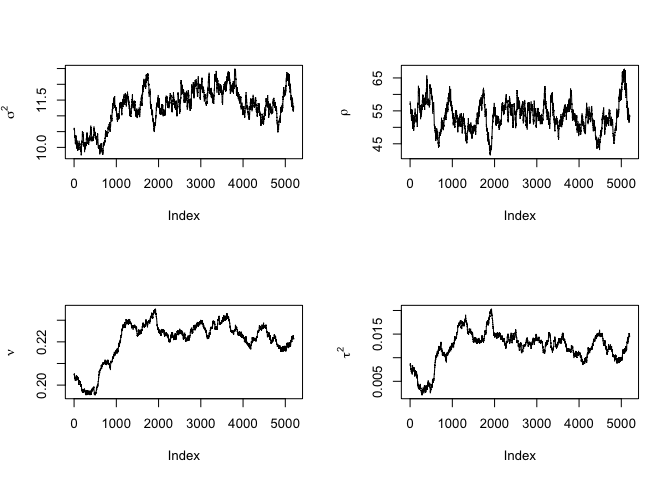
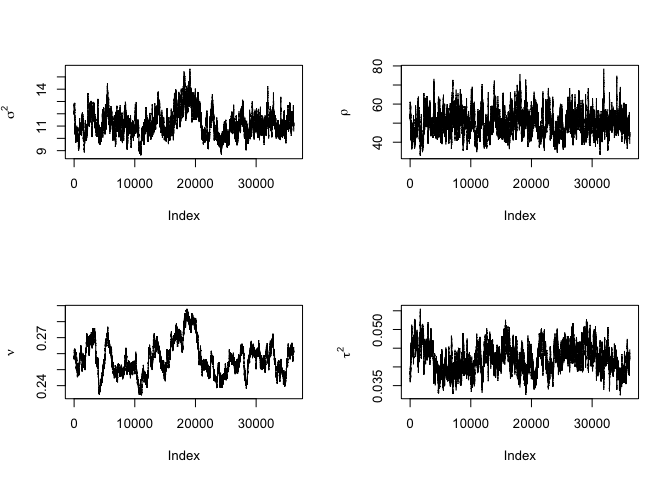
updated readme and vignette

diff --git a/README.md b/README.md
@@ -27,17 +27,20 @@ pak::pak("reetamm/spSGMCMC")
 ## Example
 
 This is an example based on the Argo data used in `GpGp`. You’ll need
-the `GpGp` package for this example to run, since we also use it for our
-initial values.
+the `GpGp` package for this example to run, since the Vecchia
+approximation and the associated neighbor set selections are done using
+functions that are part of the `GpGp` package.
 
 ``` r
 # install.packages("GpGp")
-library(GpGp)
 library(spSGMCMC)
 library(ggplot2)
 library(tidyverse)
 library(viridis)
 ```
+
+Note that we do not load the `GpGp` library as part of our workflow, but
+instead will directly call functions from the package as necessary.
 
 ``` r
 ## Open and plot the data
@@ -68,7 +71,7 @@ argoplot
 
 ``` r
 ##### Split into train/test
-test_prop <- 0.6
+test_prop <- 0.2
 test_size <- floor(nrow(argo2016)*test_prop)
 id_test <- sample(1:nrow(argo2016), size = test_size)
 id_train <- 1:nrow(argo2016)
@@ -76,60 +79,80 @@ id_train <- id_train[-id_test]
 argo2016_test <- argo2016[id_test,]
 argo2016_train <- argo2016[id_train,]
 
-#### gpgp fit
+#### Nearest neighbor configuration for the Vecchia approximation
 
 y <- argo2016_train$temp100
 X <- cbind(1, argo2016_train$lon, argo2016_train$lat, argo2016_train$lon^2, argo2016_train$lat^2)
 locs = cbind(argo2016_train$lon, argo2016_train$lat)
 ord <- GpGp::order_maxmin(locs = locs, lonlat = T)
-NNarray <- GpGp::find_ordered_nn(locs = locs[ord,], m = 10, lonlat = T)
-gpgp_fit <- GpGp::fit_model(y[ord], locs = locs[ord,], X = X[ord,], covfun_name = "matern_isotropic",
-                            NNarray = NNarray, reorder = F, silent = T, m_seq = c(10))
+NNarray <- GpGp::find_ordered_nn(locs = locs[ord,], m = 15, lonlat = T)
 ```
 
 ``` r
-##### sgrld fit
-n_epoch <- 200
+##### SGRLD fit
+n_epoch <- 400
 n_batch <- 250
 lr_sgrld = 1e-4; lr_min_sgrld = 5e-5
 n_burn = 5000
 thin = 1
 covfun_name = "matern_isotropic"
 covparams_prior_params <- cbind(c(.01, 100, 1, .1), c(.01, 2, 1, .1) )
-# Note that the prior for range is Gamma(100,2), which gives us a posterior mean of 50. Apt for very smooth global data
-# initial values from GpGp
-beta_c <- gpgp_fit$betahat; covparams0 <- gpgp_fit$covparms; initial_V <- diag(gpgp_fit$info)
-sgrld_fit <- sgrld_mcmc(y=y[ord], X = X[ord,], NNarray = NNarray, locs = locs[ord,], beta_0 = beta_c,
-                      covparams0 = covparams0, covfun_name ="matern_isotropic", lr = lr_sgrld,
-                      lr_min = lr_min_sgrld, n_epochs = n_epoch, n_batch = n_batch, n_burn = n_burn,
-                      thin = thin, covparams_prior_params = covparams_prior_params, silent = F)
-#> Iteration 510, Epoch 10 
-#> Iteration 1020, Epoch 20 
-#> Iteration 1530, Epoch 30 
-#> Iteration 2040, Epoch 40 
-#> Iteration 2550, Epoch 50 
-#> Iteration 3060, Epoch 60 
-#> Iteration 3570, Epoch 70 
-#> Iteration 4080, Epoch 80 
-#> Iteration 4590, Epoch 90 
-#> Iteration 5100, Epoch 100 
-#> Iteration 5610, Epoch 110 
-#> Iteration 6120, Epoch 120 
-#> Iteration 6630, Epoch 130 
-#> Iteration 7140, Epoch 140 
-#> Iteration 7650, Epoch 150 
-#> Iteration 8160, Epoch 160 
-#> Iteration 8670, Epoch 170 
-#> Iteration 9180, Epoch 180 
-#> Iteration 9690, Epoch 190 
-#> Iteration 10200, Epoch 200
+# Note that the prior for range is Gamma(100,2), which gives us a prior mean of 50. Appropriate smooth global data
+# Get initial values
+par0 <- get_start_parms(y[ord],X[ord,],locs[ord,],'matern_isotropic')
+beta_c <- par0$betahat; covparams0 <- par0$covparams
+
+sgrld_fit <- fit_model_sgmcmc(y=y[ord], X = X[ord,], NNarray = NNarray, locs = locs[ord,], algorithm = 'SGRLD',
+                              beta_0 = beta_c, covparams0 = covparams0, covfun_name ="matern_isotropic", 
+                              lr = lr_sgrld, lr_min = lr_min_sgrld, n_epochs = n_epoch, n_batch = n_batch, 
+                              n_burn = n_burn, thin = thin, covparams_prior_params = covparams_prior_params, silent = F)
+#> Iteration 1030, Epoch 10 
+#> Iteration 2060, Epoch 20 
+#> Iteration 3090, Epoch 30 
+#> Iteration 4120, Epoch 40 
+#> Iteration 5150, Epoch 50 
+#> Iteration 6180, Epoch 60 
+#> Iteration 7210, Epoch 70 
+#> Iteration 8240, Epoch 80 
+#> Iteration 9270, Epoch 90 
+#> Iteration 10300, Epoch 100 
+#> Iteration 11330, Epoch 110 
+#> Iteration 12360, Epoch 120 
+#> Iteration 13390, Epoch 130 
+#> Iteration 14420, Epoch 140 
+#> Iteration 15450, Epoch 150 
+#> Iteration 16480, Epoch 160 
+#> Iteration 17510, Epoch 170 
+#> Iteration 18540, Epoch 180 
+#> Iteration 19570, Epoch 190 
+#> Iteration 20600, Epoch 200 
+#> Iteration 21630, Epoch 210 
+#> Iteration 22660, Epoch 220 
+#> Iteration 23690, Epoch 230 
+#> Iteration 24720, Epoch 240 
+#> Iteration 25750, Epoch 250 
+#> Iteration 26780, Epoch 260 
+#> Iteration 27810, Epoch 270 
+#> Iteration 28840, Epoch 280 
+#> Iteration 29870, Epoch 290 
+#> Iteration 30900, Epoch 300 
+#> Iteration 31930, Epoch 310 
+#> Iteration 32960, Epoch 320 
+#> Iteration 33990, Epoch 330 
+#> Iteration 35020, Epoch 340 
+#> Iteration 36050, Epoch 350 
+#> Iteration 37080, Epoch 360 
+#> Iteration 38110, Epoch 370 
+#> Iteration 39140, Epoch 380 
+#> Iteration 40170, Epoch 390 
+#> Iteration 41200, Epoch 400
 ```
 
 ``` r
 #### Total time taken
 sgrld_fit$elapsed_time
 #> elapsed 
-#>  65.891
+#> 422.716
 #### Plot chains
 par(mfrow = c(2,2))
 library(latex2exp)
@@ -152,51 +175,17 @@ sgrld_betahat <- colMeans(sgrld_fit$beta_samples); sgrld_thetahat <- colMeans(sg
 par(mfrow=c(1,1))
 ```
 
-``` r
-#### Now prediction
-####
-y_pred <- argo2016_test$temp100
-X_pred <- cbind(1, argo2016_test$lon, argo2016_test$lat, argo2016_test$lon^2, argo2016_test$lat^2)
-locs_pred = cbind(argo2016_test$lon, argo2016_test$lat)
-predicted <- GpGp::predictions(fit = gpgp_fit ,locs_pred = locs_pred, X_pred = X_pred, y_obs = y[ord],
-                               locs_obs = locs[ord,], X_obs = X[ord,], beta = gpgp_fit$betahat,
-                               covparms = gpgp_fit$covparms, covfun_name = "matern_isotropic",
-                               m =15, reorder = FALSE )
-plot(y_pred, predicted, xlab = "True values", ylab = "Predicted values")
-abline(a=0, b = 1, col = "red")
-```
-
-<img src="man/figures/README-GpGp_predictions-1.png" width="100%" />
-
-``` r
-#Now predicted CI
-nsims <- 500
-predicted_sims <- GpGp::cond_sim(fit = gpgp_fit ,locs_pred = locs_pred, X_pred = X_pred, y_obs = y[ord],
-                                locs_obs = locs[ord,], X_obs = X[ord,], beta = gpgp_fit$betahat,
-                                covparms = gpgp_fit$covparms, covfun_name = "matern_isotropic",
-                                m =15, reorder = FALSE, nsims = nsims)
-predicted_CI <- apply(predicted_sims, 1, FUN = function(x){return(quantile(x, probs = c(0.025, 0.975)))})
-predicted_CI <- t(predicted_CI)
-coverage_fun <- function(ci_array, true_values){
-  x <- cbind(ci_array, true_values)
-  covered <- apply(x, 1, FUN = function(z){
-    if((z[1]>z[3]) || (z[2]<z[3])){
-      return(0)
-    }else{
-      return(1)
-    }
-  })
-  return(covered)
-}
-coverage_gpgp <- coverage_fun(predicted_CI, y_pred)
-cat(paste("Average coverage of GpGp on the test set is:", round(mean(coverage_gpgp),4), ".\n"))
-#> Average coverage of GpGp on the test set is: 0.9413 .
-cat(paste("Mean squared error of GpGp on the test set is:", round( mean( (predicted - y_pred)^2 ), 4), ".\n"))
-#> Mean squared error of GpGp on the test set is: 1.757 .
-```
+For predictions, we use the `predictions` function from `GpGp`, since
+all that is required for predictions is the posterior distribution of
+the parameters. Similarly the `cond_sim` function is used for
+conditional simulations from the posterior that can be used to obtain
+posterior predictions at unobserved locations with UQ.
 
 ``` r
 #### Make predictions
+y_pred <- argo2016_test$temp100
+X_pred <- cbind(1, argo2016_test$lon, argo2016_test$lat, argo2016_test$lon^2, argo2016_test$lat^2)
+locs_pred = cbind(argo2016_test$lon, argo2016_test$lat)
 predicted_sgrld_mean <- GpGp::predictions(locs_pred = locs_pred, X_pred = X_pred, y_obs = y[ord],
                                locs_obs = locs[ord,], X_obs = X[ord,], beta = sgrld_betahat,
                                covparms = sgrld_thetahat, covfun_name = "matern_isotropic",
@@ -225,23 +214,37 @@ predicted_CI_sgrld <- apply(predicted_sgrld, 1, FUN = function(x){return(quantil
 predicted_CI_sgrld <- t(predicted_CI_sgrld)
 ```
 
+Finally, we get some coverage and performance metrics.
+
 ``` r
+coverage_fun <- function(ci_array, true_values){
+  x <- cbind(ci_array, true_values)
+  covered <- apply(x, 1, FUN = function(z){
+    if((z[1]>z[3]) || (z[2]<z[3])){
+      return(0)
+    }else{
+      return(1)
+    }
+  })
+  return(covered)
+}
+
 coverage_sgrld <- coverage_fun(predicted_CI_sgrld[, c(1,3)], y_pred)
 cat(paste("Average coverage of SGRLD on the test set is: ", round(mean(coverage_sgrld),4), ".\n", sep = ""))
-#> Average coverage of SGRLD on the test set is: 0.9267.
+#> Average coverage of SGRLD on the test set is: 0.9336.
 cat(paste("Mean squared error of SGRLD on the test set is: ", round( mean( (predicted_sgrld_mean - y_pred)^2 ), 4), ".\n", sep = ""))
-#> Mean squared error of SGRLD on the test set is: 1.7563.
+#> Mean squared error of SGRLD on the test set is: 1.4003.
 cat(paste("Mean squared error of SGRLD median on the test set is: ",
           round( mean( (predicted_CI_sgrld[,2] - y_pred)^2 ), 4), ".\n", sep=""))
-#> Mean squared error of SGRLD median on the test set is: 1.8018.
+#> Mean squared error of SGRLD median on the test set is: 1.4551.
 sgrld_ESS_beta <- coda::effectiveSize(x = sgrld_fit$beta_samples)/(sgrld_fit$elapsed_time/60)
 sgrld_ESS_theta <- coda::effectiveSize(x = sgrld_fit$theta_samples)/(sgrld_fit$elapsed_time/60)
 cat(paste("SGRLD ESS/min of $\\beta$ is:\n"));round(sgrld_ESS_beta, digits = 4)
 #> SGRLD ESS/min of $\beta$ is:
 #>     var1     var2     var3     var4     var5 
-#> 4735.093 4735.093 4735.093 4735.093 4748.385
+#> 5138.202 4565.955 5229.814 5117.415 5133.797
 cat(paste("SGRLD ESS/min of $\\theta$ is:\n"));round(sgrld_ESS_theta, digits = 4)
 #> SGRLD ESS/min of $\theta$ is:
 #>    var1    var2    var3    var4 
-#>  9.0929 24.8752  2.0375  3.6888
+#> 15.0813 39.8409  2.4958 21.5709
 ```
